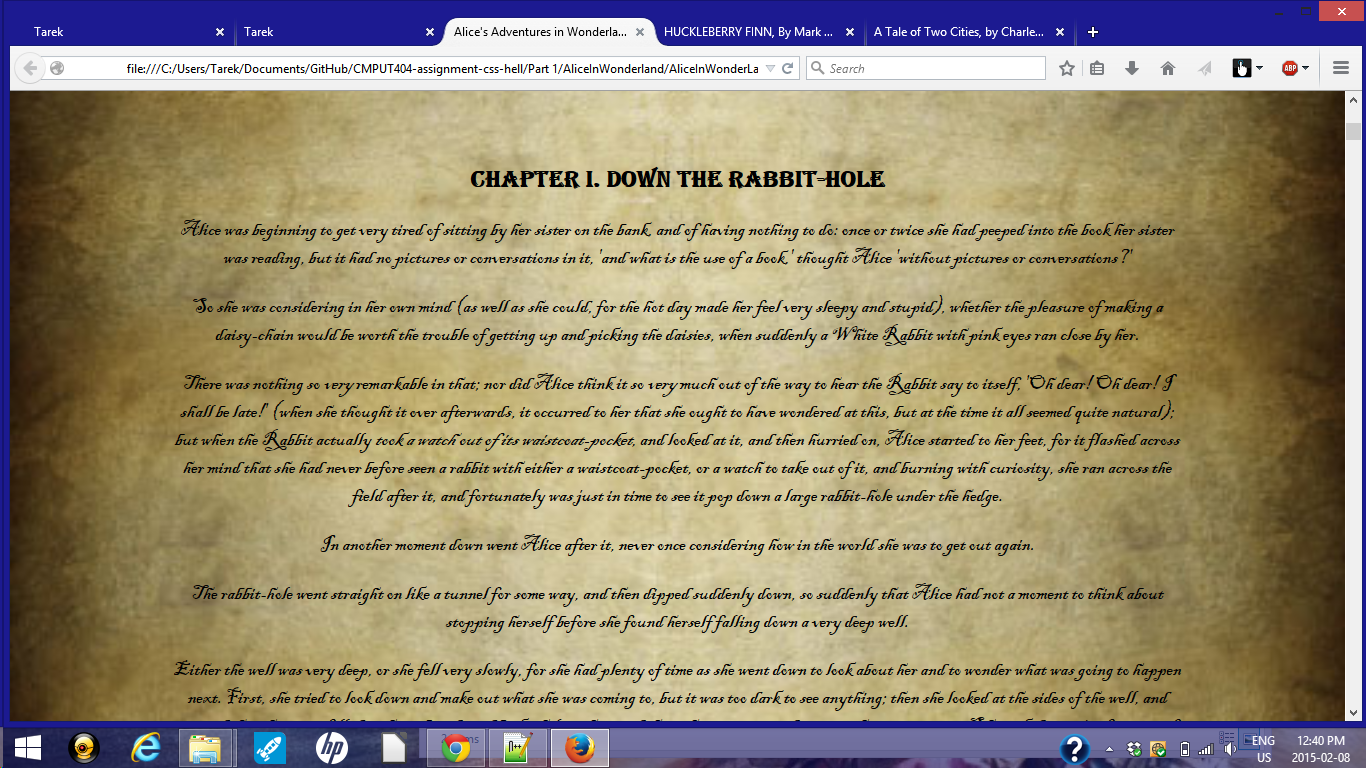
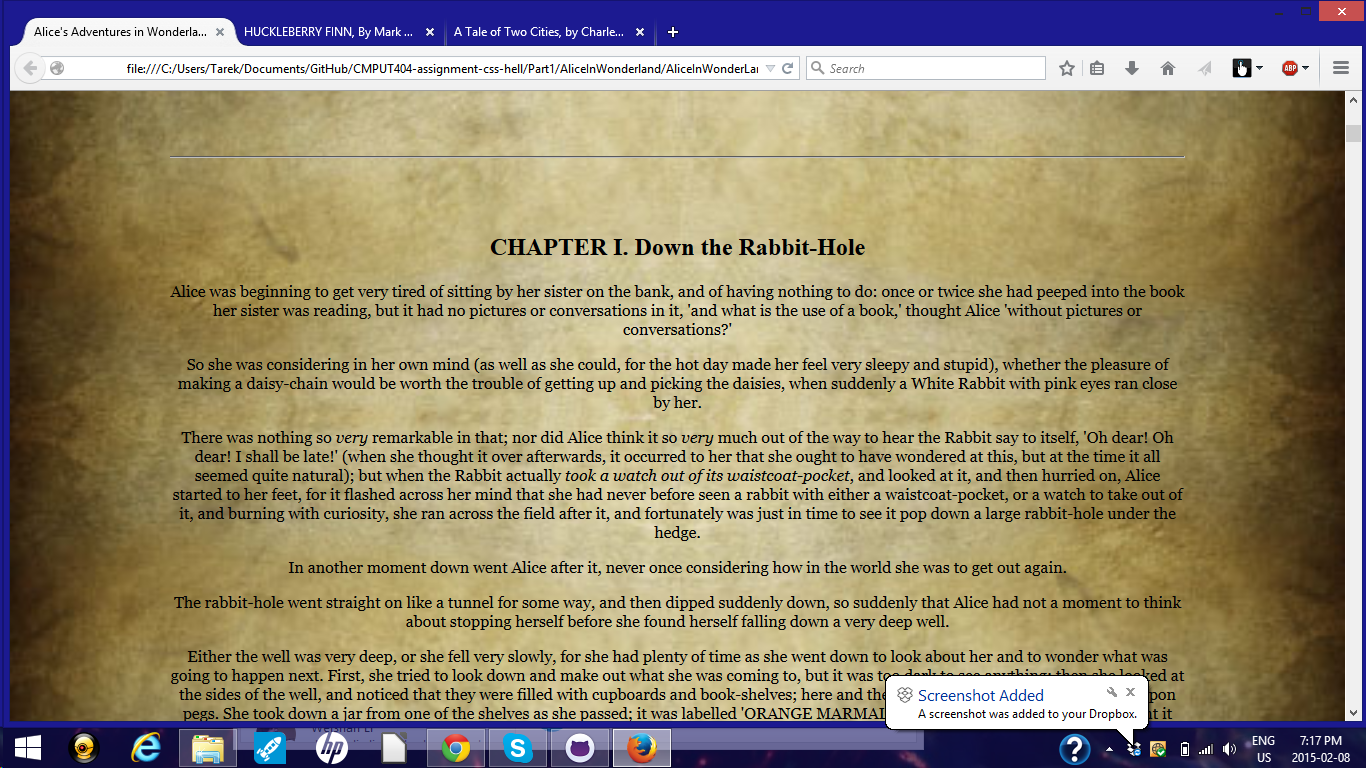
edits

diff --git a/README.md b/README.md
@@ -24,5 +24,5 @@ Code is licensed under the Apache 2.0 license.
 Part 1 Changes
 =================
 
-All paragraph tags the font color was turned black, and the font style was changed to Blackadder ITC,serif and the font size was increased by 130%.  Pre tags were all italicized.  All headers the font was changed to Algerian,serif and they were all centered. The body  had a background image added that matches the width of the screen but repeats in height. A left and right margin of 10 em was added and all the text was centered.  All images were resized to 30 em for the height and width and are centered, they also all have a 2 px black border around them to make them stand out a little better.
+All paragraph tags the font color was turned black, and the font style was changed to Georgia, serif and the font size was increased by 130%.  Pre tags were all italicized.  All headers the font was changed to Arial Black,serif and they were all centered. The body  had a background image added that matches the width of the screen but repeats in height. A left and right margin of 10 em was added and all the text was centered.  All images were resized to 30 em for the height and width and are centered, they also all have a 2 px black border around them to make them stand out a little better.
 
